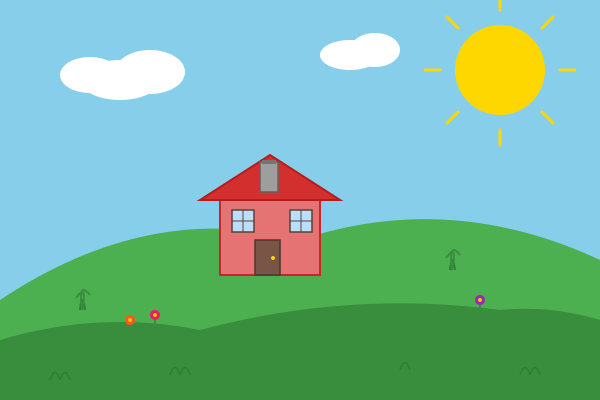
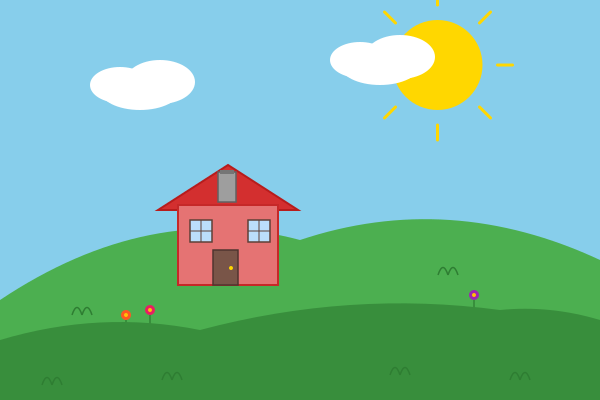
Refactor house example with patterns, layers, and relative positioning
The house scene is now built from composable patterns:
- sun (circle + 8 rays), cloud (3 ellipses), flower (stem + petals),
  grass-tuft (2 blades), window (rect + crossbars), house (roof +
  walls + chimney + windows + door, nesting window pattern)

Uses layers (sky/hills/objects) and percentage-based positioning
instead of hardcoded pixel coordinates. Objects are placed with
position.x as percentages of the scene width.

Also fixes pattern expansion to preserve Position, Constraints,
and Transform fields from the use element onto the expanded group.

diff --git a/pattern/pattern.go b/pattern/pattern.go
@@ -127,15 +127,18 @@ func (r *Registry) expandUse(el *scene.Element) (*scene.Element, error) {
 
 	// Create a group to wrap the expanded pattern
 	group := &scene.Element{
-		Type:     "group",
-		ID:       el.ID,
-		X:        el.X,
-		Y:        el.Y,
-		Width:    el.Width,
-		Height:   el.Height,
-		Style:    el.Style,
-		Class:    el.Class,
-		Children: children,
+		Type:        "group",
+		ID:          el.ID,
+		X:           el.X,
+		Y:           el.Y,
+		Width:       el.Width,
+		Height:      el.Height,
+		Style:       el.Style,
+		Class:       el.Class,
+		Position:    el.Position,
+		Constraints: el.Constraints,
+		Transform:   el.Transform,
+		Children:    children,
 	}
 
 	// If the use element specifies a different size than the pattern's natural size,
